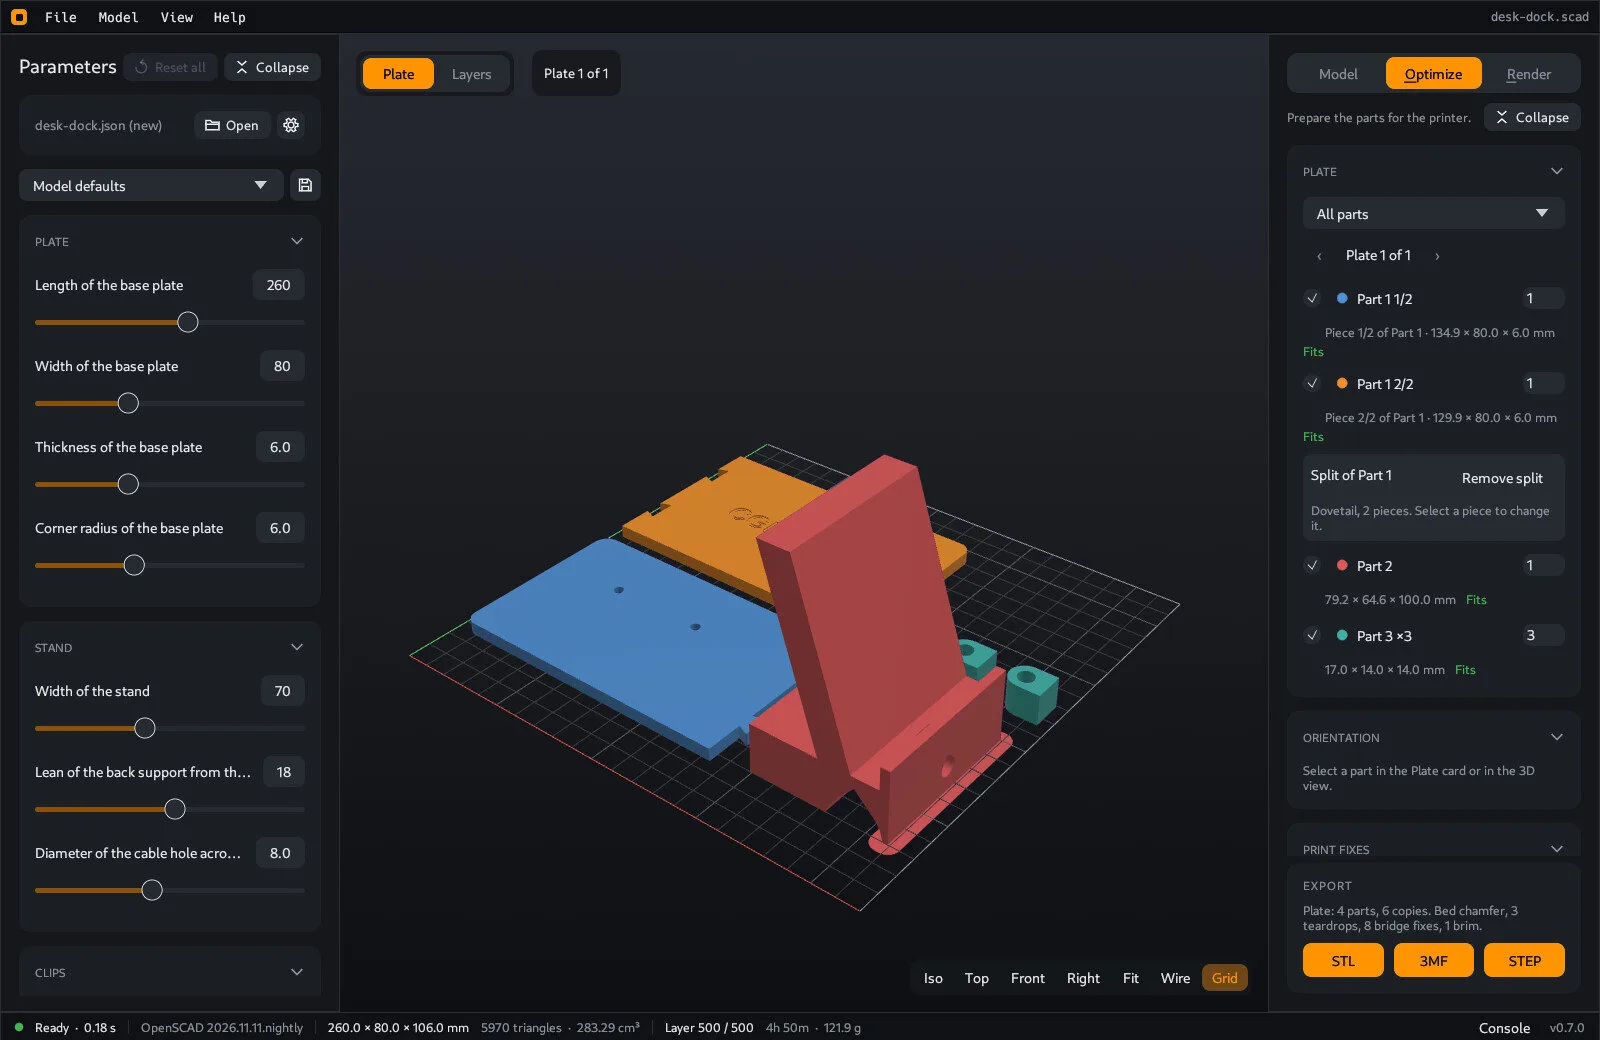
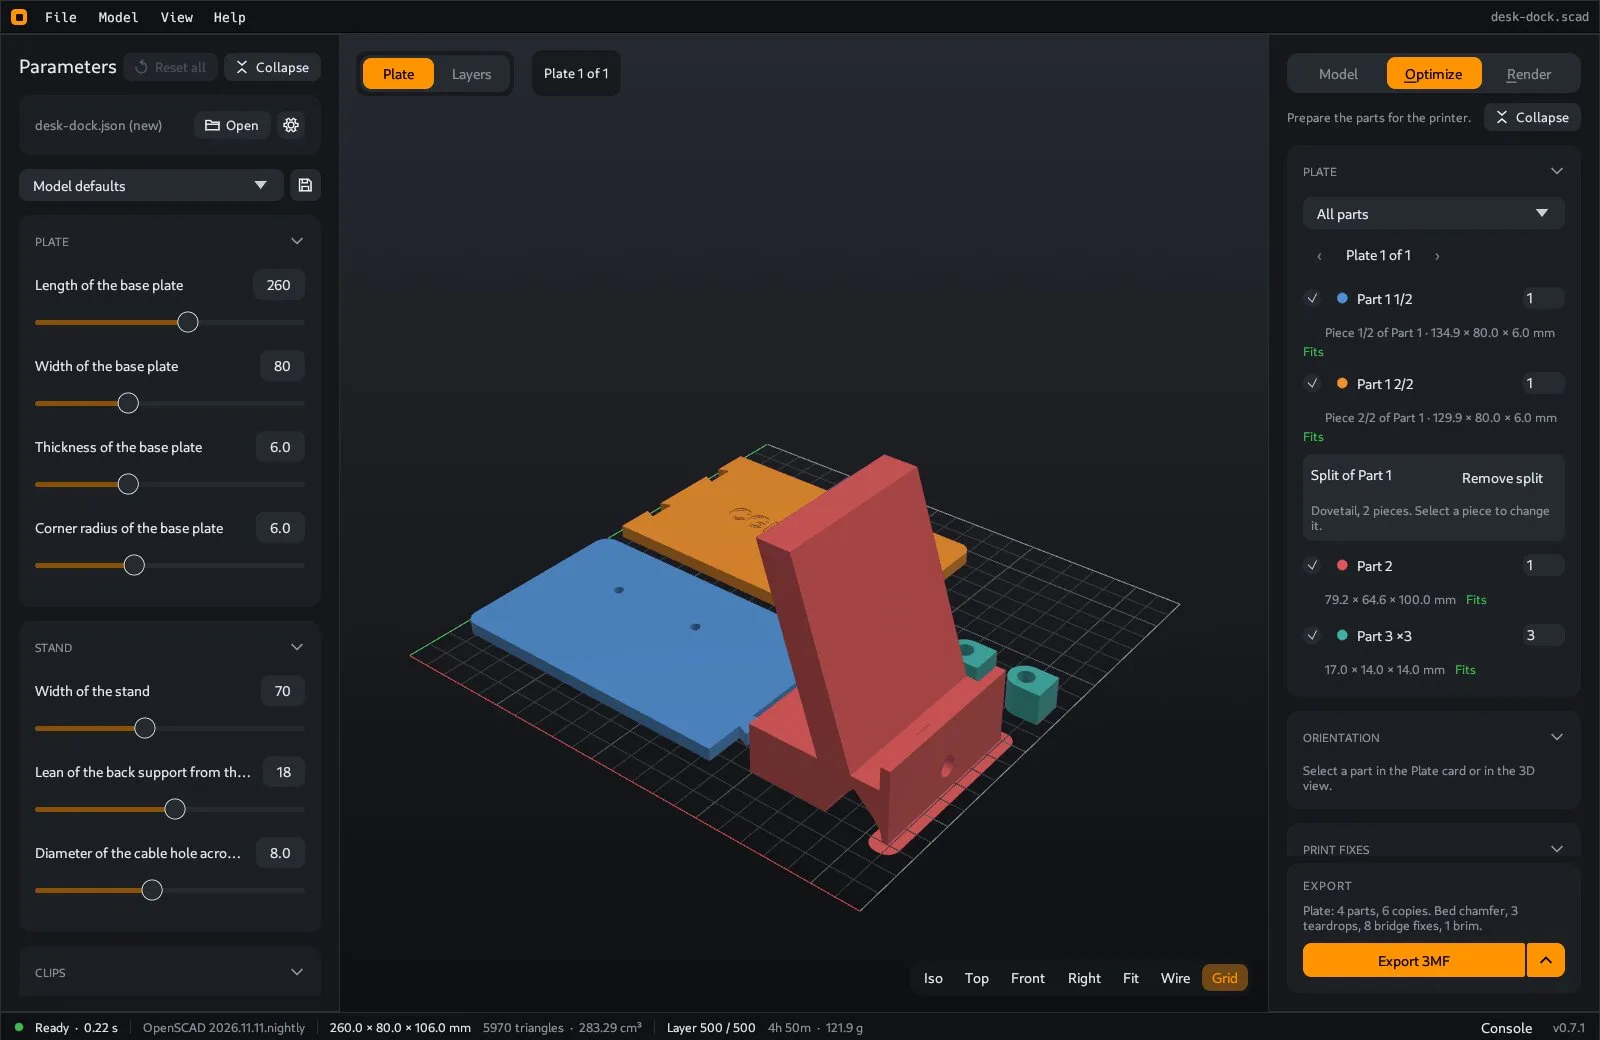
Website: Export card of the Optimize tab, screenshots of CoCAD 0.7.1
- index.html and llms.txt: the Export card is at the bottom of the
  Optimize tab. Export 3MF writes the plate, the arrow opens STL, all
  plates and STEP. The Model menu keeps the export commands.
- New screenshots with the 0.7.1 build: no Export card in the Model tab,
  the new Export card in the Optimize tab, the Render card in the Render
  tab. The Export shot shows the lid box with the menu of the Export card
  open. The WebP copies come from website-assets.py.

diff --git a/extras/website/public/index.html b/extras/website/public/index.html
@@ -232,7 +232,7 @@
       <ul class="guard-list reveal">
         <li><b>In the file.</b> The fixes change the mesh, so the exported STL or 3MF has them.</li>
         <li><b>Reference parts.</b> Parts with the <code class="inline">%</code> mark show in gray. They are not printed or exported.</li>
-        <li><b>Export card.</b> STL and 3MF write the print plate. A 3MF has one object for each part. STEP writes the model.</li>
+        <li><b>Export card.</b> Export 3MF writes the print plate, with one object for each part. Its menu has STL, all plates and STEP of the model.</li>
         <li><b>Printer presets.</b> File &gt; Settings &gt; Printer sets the default print area. Each model can have its own.</li>
       </ul>
     </section>
@@ -314,7 +314,7 @@
         <button type="button" role="tab" class="tour-tab" data-shot="assets/img/screen-model.webp" data-text="Model tab. The Customizer panel reads the comments in your .scad file. Parts with the % mark show in gray and are not printed.">Model</button>
         <button type="button" role="tab" class="tour-tab" data-shot="assets/img/screen-render.webp" data-text="Render tab. A path tracer renders the current camera in a plastic color and finish you choose, on all CPU cores.">Render</button>
         <button type="button" role="tab" class="tour-tab" data-shot="assets/img/screen-sets.webp" data-text="Parameter sets. Named sets in a .json file that OpenSCAD reads too.">Sets</button>
-        <button type="button" role="tab" class="tour-tab" data-shot="assets/img/screen-export.webp" data-text="Mesh check and export. Size, volume, triangles and open edges. The Export card stays at the bottom of each tab.">Export</button>
+        <button type="button" role="tab" class="tour-tab" data-shot="assets/img/screen-export.webp" data-text="Export card of the Optimize tab. Export 3MF writes the plate, with one object for each part. The arrow opens the other exports: STL of the plate and STEP of the model. With two or more plates, also all plates, one file each.">Export</button>
       </div>
       <div class="tour-frame reveal">
         <img data-tour-img src="assets/img/screen-optimize.webp" width="1600" height="1040" alt="CoCAD screenshot." loading="lazy" decoding="async">

diff --git a/extras/website/README.md b/extras/website/README.md
@@ -40,7 +40,7 @@ The chat text is scripted. The tool names and the numbers are real. The page dra
 
 ## Screenshots
 
-The files `images/screen-*.jpg` are screenshots of the app at 1600 × 1040, in the dark theme. Make them on a private display with the `gui-test` skill. The Optimize tab shots use `examples/desk-dock.scad` with all print fixes on, Auto orientation for the clips and the split that CoCAD proposes. After a change, run `scripts/website-assets.py --images-only`.
+The files `images/screen-*.jpg` are screenshots of the app at 1600 × 1040, in the dark theme. Make them on a private display with the `gui-test` skill. The Optimize tab shots use `examples/desk-dock.scad` with all print fixes on, Auto orientation for the clips and the split that CoCAD proposes. The Export shot uses `examples/lid-box.scad` in the Optimize tab, with the menu of the Export card open. After a change, run `scripts/website-assets.py --images-only`.
 
 ## Behavior
 
